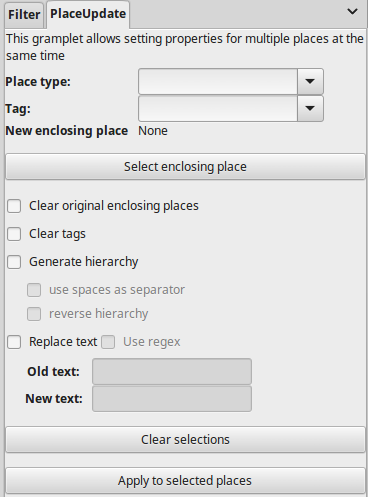
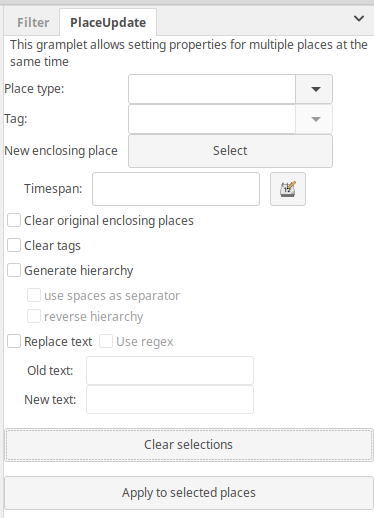
Added input field "Timespan" in PlaceUpdate gramplet (#448)
* Added timespan

* Removed trailing whitespace

* PlaceUpdate: add help URL and resize detached dialog

Changed region(s): [[0.0, 0.0, 1.0, 1.0]]

diff --git a/PlaceUpdate/PlaceUpdate.py b/PlaceUpdate/PlaceUpdate.py
@@ -23,6 +23,8 @@
 # Author: kari.kujansuu@gmail.com
 # 9 Jun 2019
 #
+# v1.0.4 (30 Aug 2020): added "timespan"
+#
 # Gramplet to change properties of multiple places at the same time. See README.
 
 import re
@@ -32,9 +34,10 @@ from gi.repository import Gtk
 
 from gramps.gen.plug import Gramplet
 from gramps.gen.db import DbTxn
-from gramps.gen.lib import Place, PlaceRef, PlaceName, PlaceType, Tag
+from gramps.gen.lib import Place, PlaceRef, PlaceName, PlaceType, Tag, Date
 
 from gramps.gui.selectors import SelectorFactory
+from gramps.gui.widgets import MonitoredDate, ValidatableMaskedEntry
 
 from gramps.gen.const import GRAMPS_LOCALE as glocale
 try:
@@ -70,7 +73,8 @@ class PlaceUpdate(Gramplet):
     def cb_clear(self, obj):
         self.selected_handle = None
         self.selected_name = ""
-        self.enclosing_place.set_text(_("None"))
+        #self.enclosing_place.set_text(_("None"))
+        self.but_set_enclosing.set_label(_("Select"))
         self.tagcombo.get_child().set_text("")
         self.typecombo.get_child().set_text("")
         self.clear_enclosing.set_active(False)
@@ -82,6 +86,8 @@ class PlaceUpdate(Gramplet):
         self.use_regex.set_active(False)
         self.old_text.set_text("")
         self.new_text.set_text("")
+        self.date_object.set()
+        self.date_entry.set_text("")
 
     def __create_gui(self):
         vbox = Gtk.VBox(orientation=Gtk.Orientation.VERTICAL)
@@ -110,20 +116,45 @@ class PlaceUpdate(Gramplet):
         self.enclosing_place = Gtk.Label(_("None"))
         self.enclosing_place.set_halign(Gtk.Align.START)
 
+        date_label = Gtk.Label(_('Timespan:'))
+        date_label.set_halign(Gtk.Align.START)
+        self.date_entry = ValidatableMaskedEntry()
+        date_button = Gtk.Button.new_from_icon_name("gramps-date", -1)
+        timespan_tooltip = _("Set timespan for enclosing places")
+        date_label.set_tooltip_text(timespan_tooltip)
+        date_button.set_tooltip_text(timespan_tooltip)
+        self.date_entry.set_tooltip_text(timespan_tooltip)
+        self.date_object = Date()
+        self.track = []
+        self.date_field = MonitoredDate(self.date_entry,
+                                        date_button,
+                                        self.date_object,
+                                        self.uistate, self.track)
+
         pt_grid = Gtk.Grid(column_spacing=10)
         pt_grid.attach(pt_label, 0, 0, 1, 1)
         pt_grid.attach(self.typecombo, 1, 0, 1, 1)
 
         pt_grid.attach(tag_label, 0, 1, 1, 1)
         pt_grid.attach(self.tagcombo, 1, 1, 1, 1)
+
         pt_grid.attach(label1, 0, 2, 1, 1)
-        pt_grid.attach(self.enclosing_place, 1, 2, 1, 1)
+
+        pl_grid = Gtk.Grid(column_spacing=10)
+        pl_grid.set_margin_left(20)
+        #pt_grid.attach(self.enclosing_place, 1, 2, 1, 1)
+
+        pl_grid.attach(date_label, 1, 4, 1, 1)
+        pl_grid.attach(self.date_entry, 2, 4, 1, 1)
+        pl_grid.attach(date_button, 3, 4, 1, 1)
 
         vbox.pack_start(pt_grid, False, True, 0)
+        vbox.pack_start(pl_grid, False, True, 0)
 
-        but_set_enclosing = Gtk.Button(label=_('Select enclosing place'))
-        but_set_enclosing.connect("clicked", self.cb_select)
-        vbox.pack_start(but_set_enclosing, False, True, 10)
+        self.but_set_enclosing = Gtk.Button(label=_('Select'))
+        self.but_set_enclosing.connect("clicked", self.cb_select)
+        #vbox.pack_start(self.but_set_enclosing, False, True, 10)
+        pt_grid.attach(self.but_set_enclosing, 1, 2, 1, 1 )
 
         self.clear_enclosing = Gtk.CheckButton(_("Clear original enclosing places"))
         vbox.pack_start(self.clear_enclosing, False, True, 0)
@@ -207,7 +238,18 @@ class PlaceUpdate(Gramplet):
         title = selected_parent.get_title()
         if title:
             self.selected_name += " (title={})".format(title)
-        self.enclosing_place.set_text(self.selected_name)
+        #self.enclosing_place.set_text(self.selected_name)
+        self.but_set_enclosing.set_label(self.selected_name)
+
+    def cb_set_enclosing_dates(self, obj):
+        #SelectDate = SelectorFactory('Date')
+        sel = EditDate(None, self.gui.uistate, None)
+        date = sel.run()
+        print("date=", date)
+        if not date:
+            return
+        pass
+
 
     def cb_select_generate_hierarchy(self, obj):
         checked = self.generate_hierarchy.get_active()
@@ -302,6 +344,7 @@ class PlaceUpdate(Gramplet):
         print(pname, "<", self.selected_name)
         placeref = PlaceRef()
         placeref.ref = self.selected_handle
+        placeref.set_date_object(self.date_object)
         place.add_placeref(placeref)
 
 
@@ -353,6 +396,7 @@ class PlaceUpdate(Gramplet):
                 if parent_handle is not None:
                     placeref = PlaceRef()
                     placeref.ref = parent_handle
+                    placeref.set_date_object(self.date_object)
                     new_place.add_placeref(placeref)
                 parent_handle = self.dbstate.db.add_place(new_place, self.trans)
             else:
@@ -363,6 +407,7 @@ class PlaceUpdate(Gramplet):
         if parent_handle is not None:
             placeref = PlaceRef()
             placeref.ref = parent_handle
+            placeref.set_date_object(self.date_object)
             place.set_placeref_list([placeref]) # this removes any previous parent
         return top_place
 

diff --git a/PlaceUpdate/PlaceUpdate.gpr.py b/PlaceUpdate/PlaceUpdate.gpr.py
@@ -3,15 +3,16 @@ register(GRAMPLET,
          name = _("PlaceUpdate"),
          description = _("Gramplet to manipulate multiple places"),
          status = STABLE,
-         version = '1.0.3',
+         version = '1.0.4',
          gramps_target_version = '5.1',
          fname = "PlaceUpdate.py",
          gramplet = 'PlaceUpdate',
          height = 375,
          detached_width = 510,
-         detached_height = 480,
+         detached_height = 520,
          expand = True,
          gramplet_title = _("PlaceUpdate"),
          include_in_listing = True,
+         help_url = "http://gramps-project.org/wiki/index.php/PlaceUpdate_Gramplet",
          navtypes=["Place"],
 )

diff --git a/PlaceUpdate/README.md b/PlaceUpdate/README.md
@@ -23,7 +23,7 @@ The user interface looks like:
 **Setting enclosing place**
 
 For the enclosing place first select the place that should enclose the other places 
-and click the "Set enclosing place" button. The selected place will be displayed.
+and click the "Select" button next to the "New enclosing place" label. The selected place will be displayed as the label of the button.
 Then select any number of places that should  be enclosed by the first one
 and click the "Apply to selected places" button. 
 
@@ -34,6 +34,8 @@ This can e.g. be used to "move" the places under another place.
 
 Attempts to set a duplicate enclosing place or a loop (so that a place contains itself) 
 are quietly bypassed.
+
+In the "Timespan" field you can specify relevant the date range if needed. This also affects the generated hierarchy (see below).
 
 
 **Setting place type or tag**
@@ -65,6 +67,8 @@ The hierarchy can also be generated in reverse, e.g. the result can also be
 The place type and tag setting affects only the original place.
 
 If the original place is under another place or a new enclosing place is specified then the new hierarchy is placed under the enclosing place.
+
+If a timespan is specified then it applies to all levels in the generated hierarchy.
 
 **Editing place names**
 
